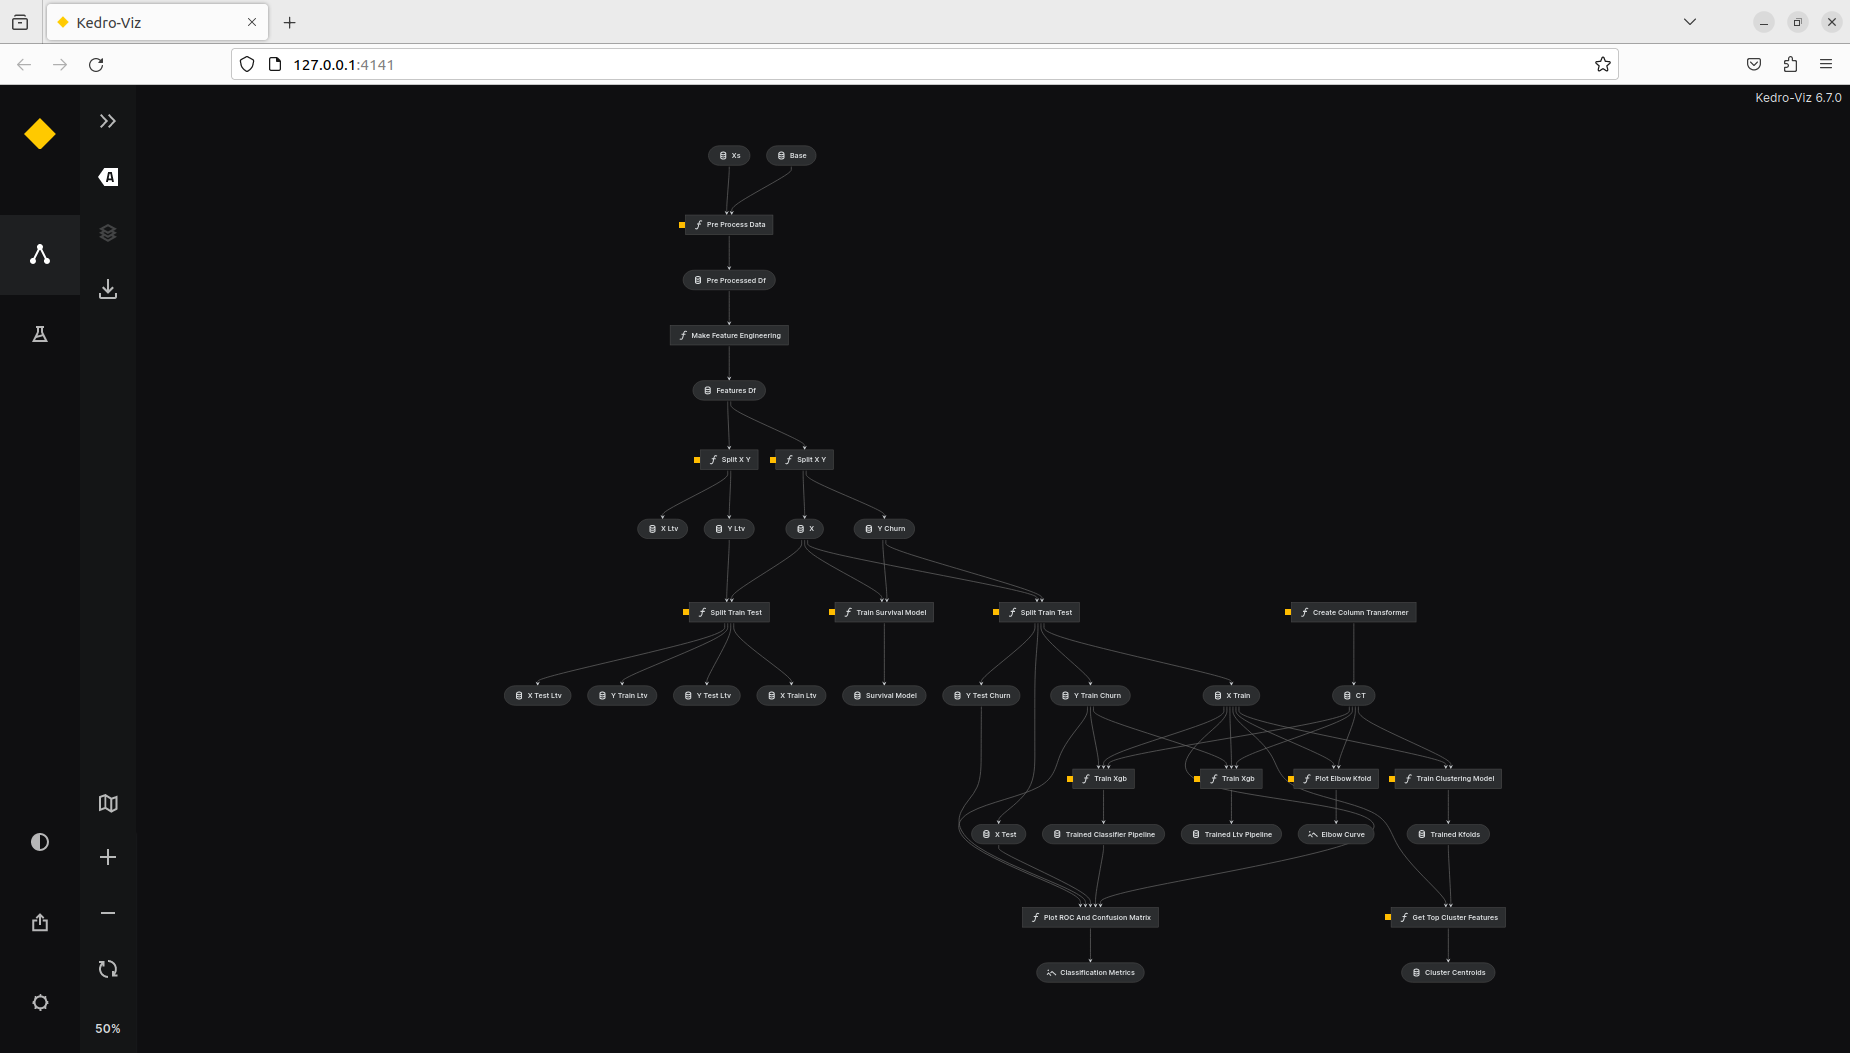
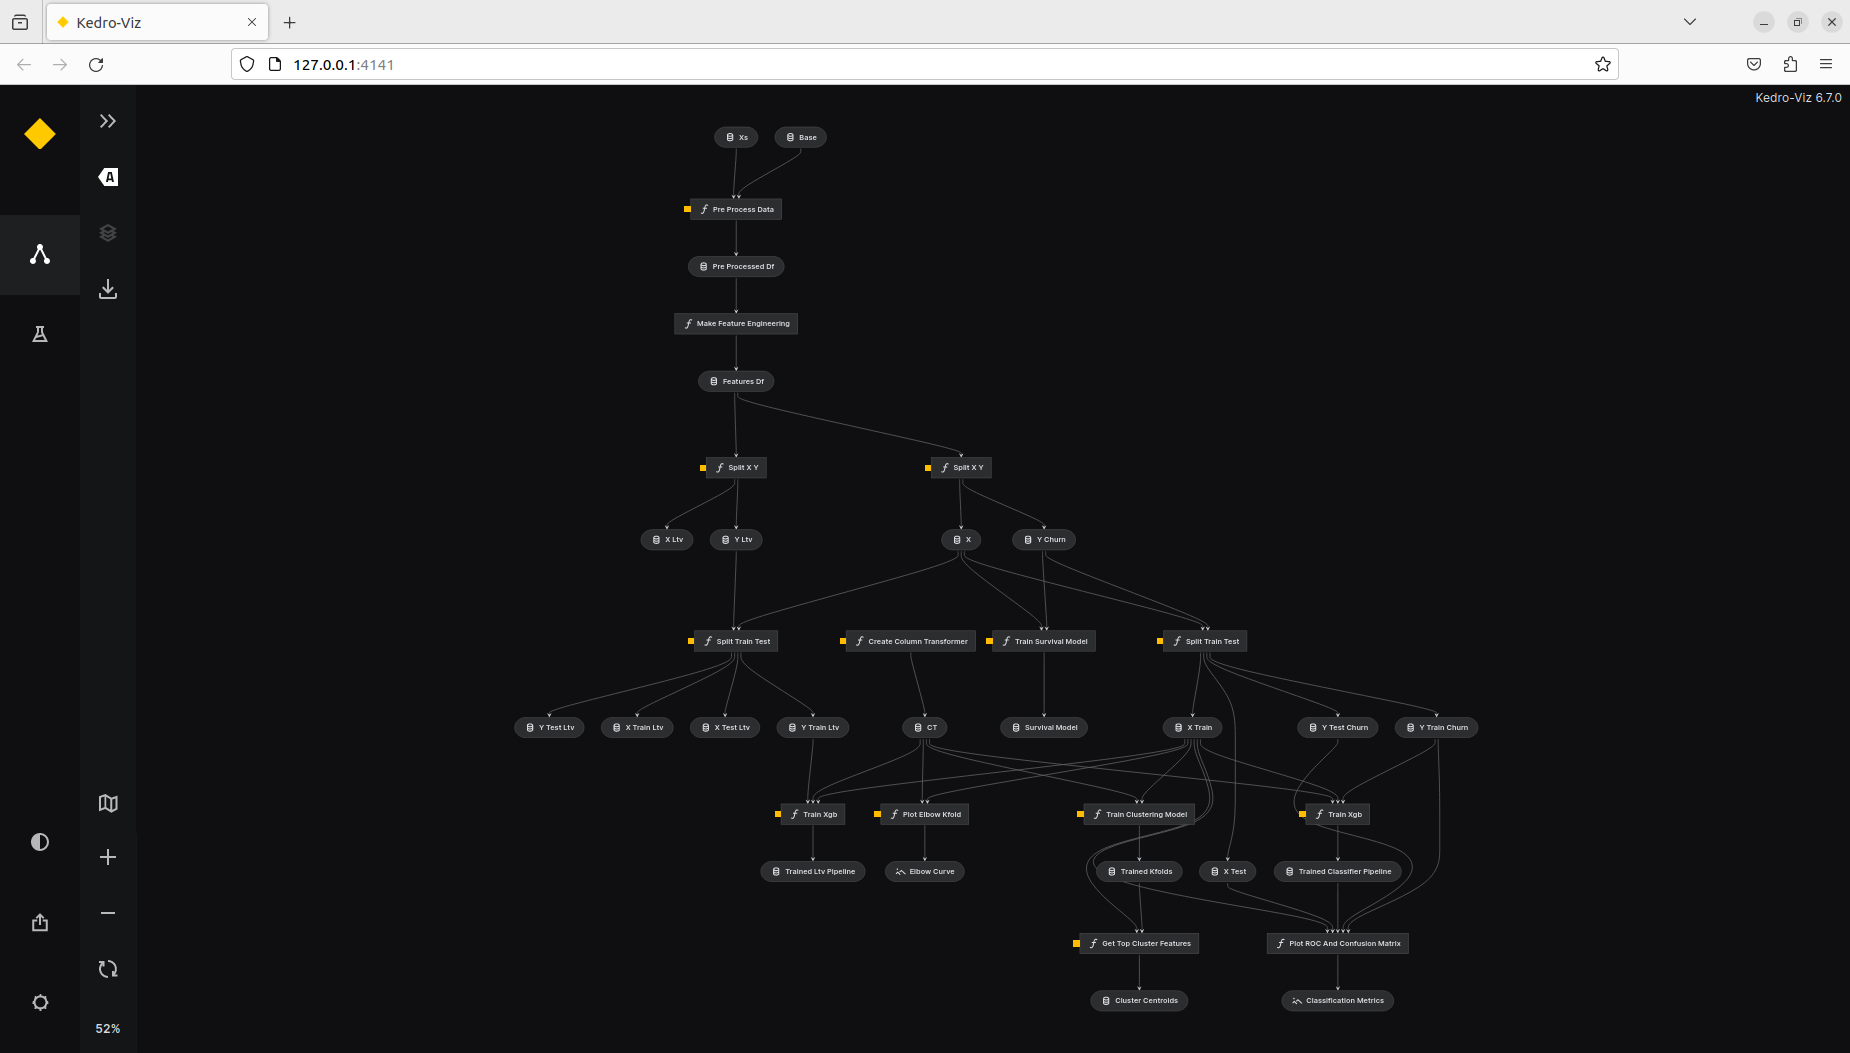
updated docs

diff --git a/ltv-ml-project/src/ltv_ml_project/pipelines/data_science/pipeline.py b/ltv-ml-project/src/ltv_ml_project/pipelines/data_science/pipeline.py
@@ -77,7 +77,7 @@ def create_pipeline(**kwargs) -> Pipeline:
                 func=train_xgb,
                 inputs=[
                     "X_train",
-                    "y_train_churn",
+                    "y_train_ltv",
                     "CT",
                     "params:xgb_parameters",
                     "params:problem_type_regression",

diff --git a/README.md b/README.md
@@ -10,8 +10,13 @@ The project includes:
 - A Streamlit App to run predictions interactively
 
 
-### Project Structure
+## Project Structure
 
+The directory structure shows two main folders:
+- `ltv-ml-project`: Contains the whole data pipeline, which consists of a kedro project. It also include the notebooks used in the data exploration and analysis. Read more in (here)[https://docs.kedro.org/en/0.18.3/faq/architecture_overview.html]
+- `prediction_app`: Contains the code to deploy the models in a Streamlit web app, that can enable end-users to run predictions with different inputs.   The app is being deployed (here)[https://ltv-analysis-66dlatsw4q-uc.a.run.app/]. 
+
+The sub-fol
 
 ```
 .
@@ -58,6 +63,11 @@ The machine learning pipeline was orchestrated using Kedro. The codebase for the
 
 To run this visualization, run the command `kedro viz` when inside the folder `ltv-ml-project`. 
 
+This pipeline orchestrate the whole data science code. It includes the data pre-processing, feature engineering, the training of the models and the calculation of the metrics. All data is being managed by the catalog structure, and the linkage between the datasources and the code can be seen in `conf/base/catalog.yml`. 
+
+All data is being saved on the Google Cloud Storage. The training of the models is being run locally, but in the future the plan is to set up a VM to do that.
+
+
 ## Prediction App
 
 A prediction app has been developed using Streamlit for user-friendly interaction. Access the app [here](https://ltv-analysis-66dlatsw4q-uc.a.run.app/).
@@ -65,12 +75,22 @@ A prediction app has been developed using Streamlit for user-friendly interactio
 A screenshot of the app:
 ![Streamlit](docs/streamlit.png)
 
+To run the app locally, run in the project root directory:
+```console
+streamlit run /prediction_app/main.py
+```
+
+The app should start locally. The same command can be seen in the end of the `Dockerfile`.
+
+## Cloud usage
+
+The cloud provider for this project is the Google Cloud Platform. Currently the app is being deployed to a Cloud Run instance (read more (here)[https://cloud.google.com/run?hl=en]). The CI/CD pipeline uses Cloud Build (see `cloudbuild.yaml` file, and read more (here)[https://cloud.google.com/build?hl=en]). Every commit in the main branch re-starts the deployment of the model. Next features will include the training of the model in a (Compute Engine)[https://cloud.google.com/compute?hl=en] virtual machine. All data and models are being saved in the (Cloud Storage)[https://cloud.google.com/storage?hl=en], and the secrets are being managed by the (Secret Manager)[https://cloud.google.com/secret-manager].
 
 ## Exploratory Data Analysis (EDA)
 
 The exploratory data analysis was conducted in Jupyter Notebooks, available in the `ltv-ml-project/notebooks` directory. There are also notebooks using when developing the models.
 
-### Usage
+## Usage
 
 To replicate this project locally, follow these steps:
 
@@ -107,12 +127,20 @@ You can also here visualize the pipeline with:
 kedro viz --env=local
 ```
 
-4. Set up your cloud environment.
+5. Initiate the prediction app:
 
-This project runs in the Google Cloud Platform, and the CI/CD files can be seen at the `cloudbuild.yaml` and `dockerfile`. Those are being used to deploy this project.
+Navigate back to the root directory and then run:
+
+```console
+streamlit run /prediction_app/main.py
+```
+
+6. Set up your cloud environment.
+
+This project runs in the Google Cloud Platform, and the CI/CD files can be seen at the `cloudbuild.yaml` and `dockerfile`. Those are being used to deploy this project. You can set up your own project in the cloud and use them as example.
 
 
-6.  *Extra*: Explore the notebooks in `ltv-ml-project/notebooks` for detailed analysis.
+7.  *Extra*: Explore the notebooks in `ltv-ml-project/notebooks` for detailed analysis.
 
 ## Contributors
 
